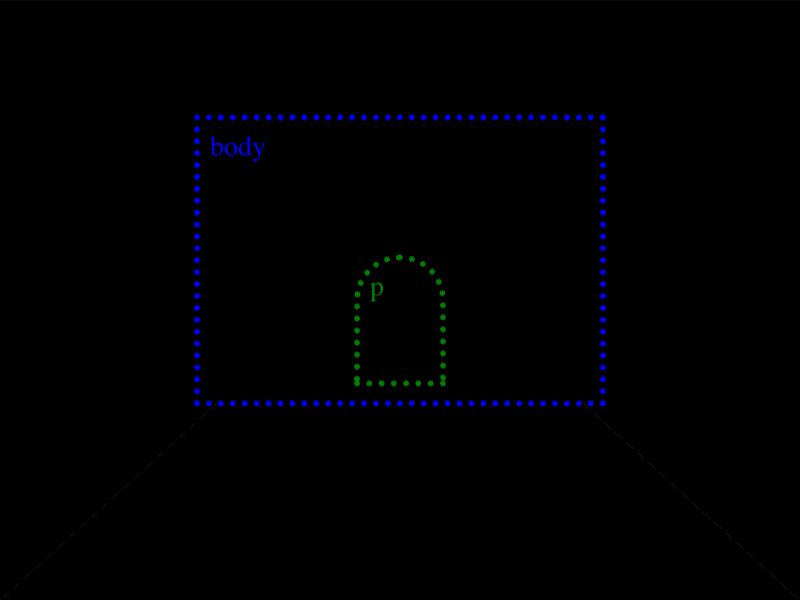
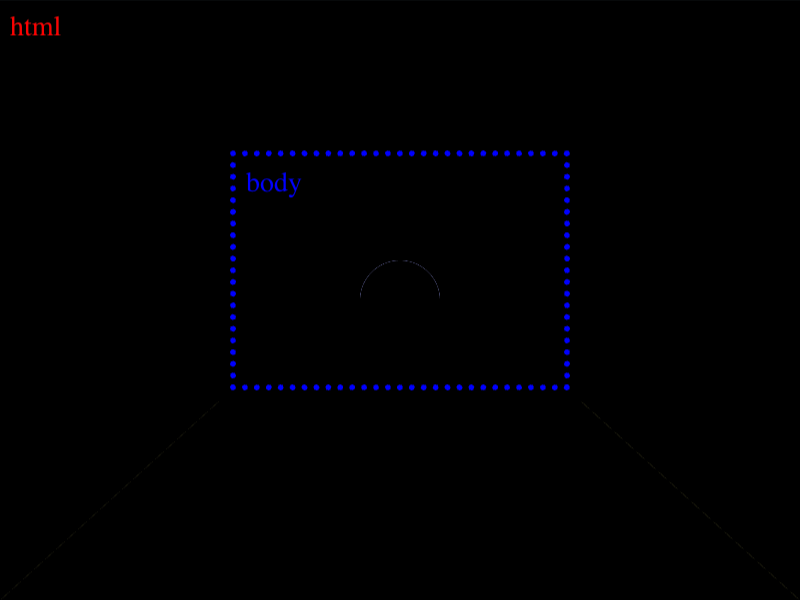
Score: 648.21, Characters: 222 (100.00% match) - CSSHub

diff --git a/Daily Targets/2026-08-27/README.md b/Daily Targets/2026-08-27/README.md
@@ -22,34 +22,22 @@ Challenge: <https://cssbattle.dev/play/s17MKgzJQsAf1vObf9Ta>
 ## Code
 
 ```html
-<p><style>*{border:var(--b,110px)solid}&{background:#DBDDFF;margin:-40 0 0;color:#4E53BB;border-bottom:25vw solid#DBDDFF;*{margin:-10-10 0;--b:11q;height:120;*{--b:5vw;color:4D4A18;height:20;margin:60 70;border-radius:9in 9in 0 0
+<style>&{border:solid;border-width:70 110 100;border-color:#4E53BB#4E53BB#DBDDFF;background:radial-gradient(1q,#4D4A18 5vw,#0000)0 5vh,conic-gradient(at 74q 5ch,#4D4A18 25%,#4E53BB 0 75%,#0000 0)0 5pc/110px repeat-x#DBDDFF
 ```
 
 ## Prettified code
 
 ```html
-<p>
 <style>
-* {
-  border: var(--b, 110px) solid;
-}
 & {
-  background: #dbddff;
-  margin: -40 0 0;
-  color: #4e53bb;
-  border-bottom: 25vw solid #dbddff;
-  * {
-    margin: -10 -10 0;
-    --b: 11Q;
-    height: 120;
-    * {
-      --b: 5vw;
-      color: 4D4A18;
-      height: 20;
-      margin: 60 70;
-      border-radius: 9in 9in 0 0;
-    }
-  }
+  border: solid;
+  border-width: 70 110 100;
+  border-color: #4e53bb #4e53bb #dbddff;
+  background:
+    radial-gradient(1Q, #4d4a18 5vw, transparent) 0 5vh,
+    conic-gradient(at 74Q 5ch, #4d4a18 25%, #4e53bb 0 75%, transparent 0) 0
+      5pc / 110px repeat-x #dbddff;
 }
+
 </style>
 ```

diff --git a/README.md b/README.md
@@ -217,7 +217,7 @@ Note - I have not yet complete all the challenges.
 <li><a href="./Daily%20Targets/2026-08-24/">Aug 24, 2026</a> (116 Characters)</li>
 <li><a href="./Daily%20Targets/2026-08-25/">Aug 25, 2026</a> (268 Characters)</li>
 <li><a href="./Daily%20Targets/2026-08-26/">Aug 26, 2026</a> (163 Characters)</li>
-<li><a href="./Daily%20Targets/2026-08-27/">Aug 27, 2026</a> (229 Characters)</li>
+<li><a href="./Daily%20Targets/2026-08-27/">Aug 27, 2026</a> (222 Characters)</li>
 </ul>
 </details>
 </li>
